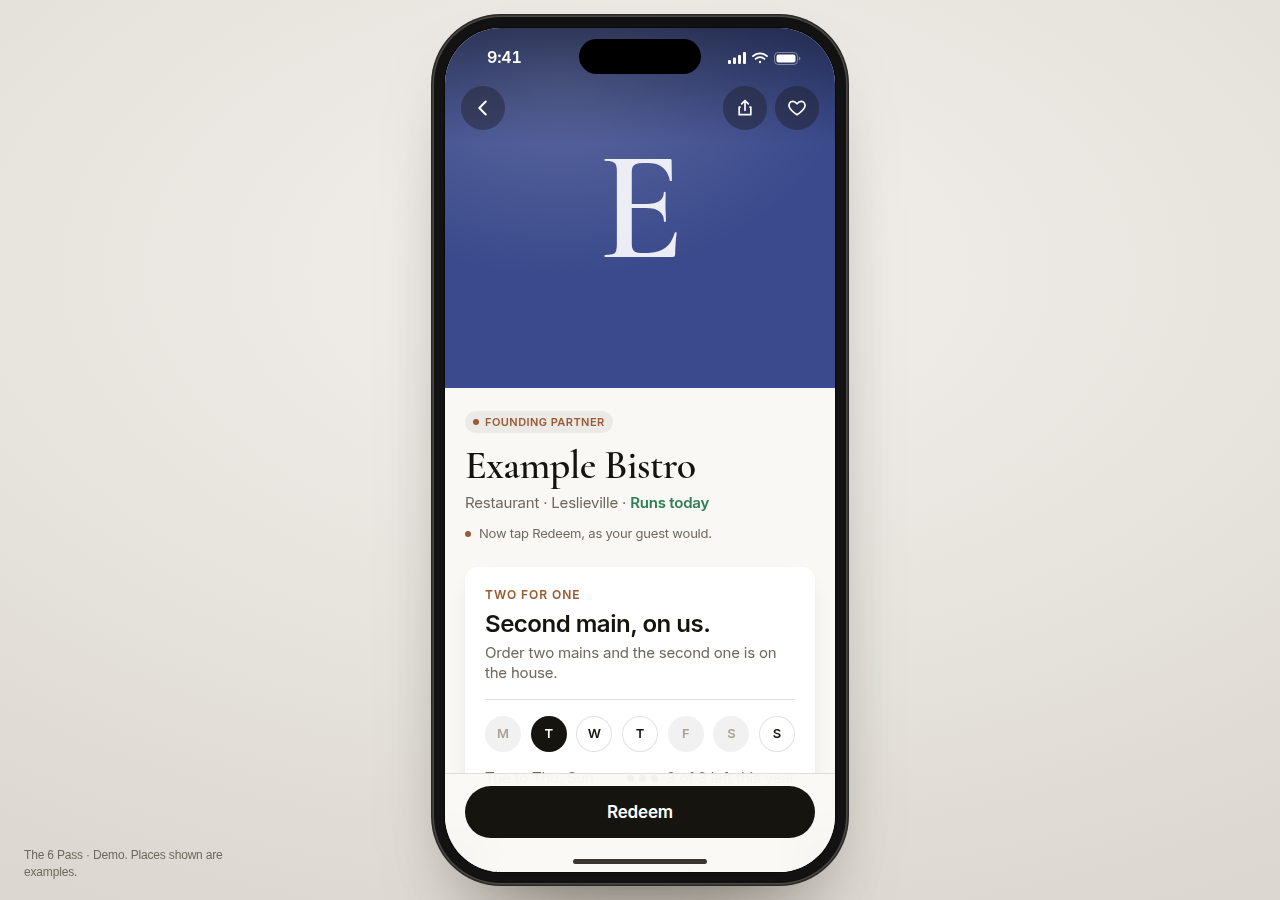
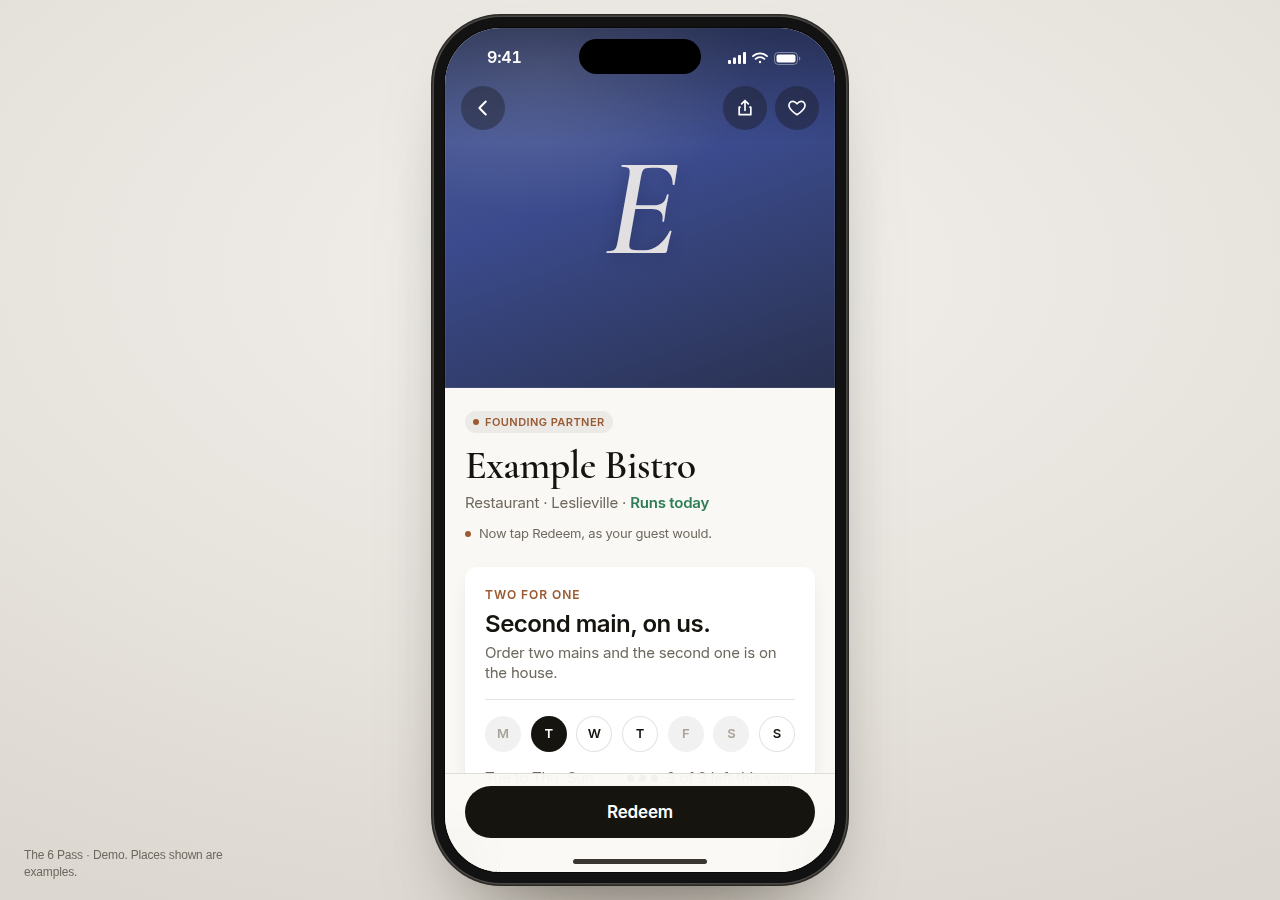
Demo: richer no-photo tile, tap hints off by default, photo first in set-up
- No photo: a deep gradient in the owner's colour with the initial in
  the place-name serif, like a cover photo.
- Tap hints (the small 'tap Redeem' lines) are off by default, so owners
  see a clean app. Nida turns them on with a Tap hints switch on the
  start screen; it survives New meeting.
- Set-up sheet asks for a photo right after the name.
- Merchant walk: 110/110 (hints default, hints-off check).

Changed region(s): [[0.3438, 0.1556, 0.6562, 0.4356]]

diff --git a/src/mock/ui.tsx b/src/mock/ui.tsx
@@ -36,13 +36,19 @@ export function Photo({ p, size = 640, className = "", priority = false }: { p: 
       // eslint-disable-next-line @next/next/no-img-element
       return <img src={p.photo} alt="" decoding="async" className={`object-cover ${className}`} />;
     }
+    // A deep tile in their colour, like a cover photo, with the initial in the place-name serif.
+    const c = p.colour ?? "#C8372A";
     return (
       <span
         aria-hidden="true"
         className={`flex items-center justify-center overflow-hidden ${className}`}
-        style={{ background: `radial-gradient(120% 90% at 30% 15%, rgba(255,255,255,0.16), transparent 60%), ${p.colour ?? "#C8372A"}`, containerType: "size" }}
+        style={{
+          background: `radial-gradient(90% 70% at 25% 10%, rgba(255,255,255,0.14), transparent 60%), linear-gradient(160deg, color-mix(in oklab, ${c} 88%, #fff) 0%, ${c} 45%, color-mix(in oklab, ${c} 55%, #16140F) 100%)`,
+          boxShadow: "inset 0 0 0 1px rgba(255,255,255,0.08)",
+          containerType: "size",
+        }}
       >
-        <span className="display leading-none text-white/90" style={{ fontSize: "min(50cqh, 40cqw)" }}>
+        <span className="display italic leading-none text-[#F4F1EC]/90" style={{ fontSize: "min(44cqh, 36cqw)", textShadow: "0 2px 18px rgba(0,0,0,0.18)" }}>
           {initialOf(p.name)}
         </span>
       </span>
@@ -55,8 +61,40 @@ export function Photo({ p, size = 640, className = "", priority = false }: { p: 
   );
 }
 
-/** One quiet line telling whoever holds the phone what to tap next. */
-export function Guide({ children, className = "" }: { children: React.ReactNode; className?: string }) {
+/* Tap hints for practising the demo. Off by default, so owners see a clean app. Kept apart from the demo state, so New meeting doesn't reset it. */
+const HINTS_KEY = "t6p_hints";
+const HINTS_EVENT = "t6p-hints";
+function subscribeHints(l: () => void) {
+  window.addEventListener(HINTS_EVENT, l);
+  window.addEventListener("storage", l);
+  return () => {
+    window.removeEventListener(HINTS_EVENT, l);
+    window.removeEventListener("storage", l);
+  };
+}
+function readHints() {
+  try {
+    return window.localStorage.getItem(HINTS_KEY) === "1";
+  } catch {
+    return false;
+  }
+}
+export function useHints() {
+  return useSyncExternalStore(subscribeHints, readHints, () => false);
+}
+export function setHints(on: boolean) {
+  try {
+    window.localStorage.setItem(HINTS_KEY, on ? "1" : "0");
+  } catch {
+    /* blocked storage: hints just stay off */
+  }
+  window.dispatchEvent(new Event(HINTS_EVENT));
+}
+
+/** One quiet line telling whoever holds the phone what to tap next. Shown only with tap hints on, unless `always`. */
+export function Guide({ children, className = "", always = false }: { children: React.ReactNode; className?: string; always?: boolean }) {
+  const hints = useHints();
+  if (!always && !hints) return null;
   return (
     <p className={`hint ${className}`} data-testid="guide">
       <span>{children}</span>

diff --git a/src/mock/screens/owner/Start.tsx b/src/mock/screens/owner/Start.tsx
@@ -10,10 +10,26 @@ import { useState } from "react";
 import { mock, place, useMock } from "../../store";
 import { OWNER_ID, blankDraft } from "../../owner";
 import { IChev, IGear, IPlay } from "../../icons";
-import { Guide, NavBar, Wordmark } from "../../ui";
+import { Guide, NavBar, setHints, useHints, Wordmark } from "../../ui";
 import { PlaceCard } from "../Explore";
 import { NewMeeting } from "./NewMeeting";
 import { QuickSetup } from "./QuickSetup";
+
+/** Nida's switch: one quiet line on each screen saying what to tap next. Off for real meetings. */
+function HintsRow() {
+  const on = useHints();
+  return (
+    <div className="row">
+      <span className="min-w-0">
+        <span id="hints-label" className="block">Tap hints</span>
+        <span className="t-foot block">A small line on each screen saying what to tap. For practice.</span>
+      </span>
+      <button type="button" role="switch" aria-checked={on} aria-labelledby="hints-label" onClick={() => setHints(!on)} className="switch-hit">
+        <span className="switch" aria-hidden="true" data-on={on} />
+      </button>
+    </div>
+  );
+}
 
 export function Start() {
   const s = useMock();
@@ -50,7 +66,7 @@ export function Start() {
               <PlaceCard p={p} block={null} href={null} />
             </div>
             <div className="m mt-5">
-              <Guide>Tap Start demo and hand the phone over.</Guide>
+              <Guide always>Tap Start demo and hand the phone over.</Guide>
               <Link href="/app" className="btn press mt-3">
                 <IPlay />
                 Start demo
@@ -66,6 +82,7 @@ export function Start() {
                   <span>Set up a different place</span>
                   <IChev className="chev" />
                 </Link>
+                <HintsRow />
               </div>
             </div>
             <div className="m mt-6">
@@ -74,7 +91,7 @@ export function Start() {
           </>
         ) : (
           <div className="m mt-6">
-            <Guide>Tap Set up a place to begin with the owner&apos;s own place.</Guide>
+            <Guide always>Tap Set up a place to begin with the owner&apos;s own place.</Guide>
             <Link href="/app/owner/setup" onClick={() => mock.setDraft(0, blankDraft())} className="btn press mt-3">
               Set up a place
             </Link>
@@ -82,6 +99,9 @@ export function Start() {
               Start demo with example places
             </Link>
             <p className="t-foot mt-4">Before a meeting, tap the gear to fill in the place ahead of time.</p>
+            <div className="group mt-6">
+              <HintsRow />
+            </div>
           </div>
         )}
 

diff --git a/src/mock/screens/owner/QuickSetup.tsx b/src/mock/screens/owner/QuickSetup.tsx
@@ -67,6 +67,7 @@ export function QuickSetup({ onClose, onSaved }: { onClose: () => void; onSaved?
     >
       <div className="m space-y-6 pt-2">
         <TextField id="qs-name" label="Name of the place" value={d.name} onChange={(name) => set({ name })} />
+        <PhotoPicker value={d.photo} onChange={(photo) => set({ photo })} />
         <div className="group">
           <SelectRow
             id="qs-cat"
@@ -96,7 +97,6 @@ export function QuickSetup({ onClose, onSaved }: { onClose: () => void; onSaved?
         <OfferLine id="qs-offer" value={d.offer} onChange={(offer) => set({ offer })} />
         <DaysPicker value={d.days} onChange={(days) => set({ days })} />
         <UsesStepper value={d.usesPerYear} onChange={(usesPerYear) => set({ usesPerYear })} />
-        <PhotoPicker value={d.photo} onChange={(photo) => set({ photo })} />
         <ColourPicker value={d.colour} onChange={(colour) => set({ colour })} />
         <div role="status" aria-live="polite">
           {err && <Note>{err}</Note>}

diff --git a/src/mock/screens/owner/controls.tsx b/src/mock/screens/owner/controls.tsx
@@ -277,7 +277,7 @@ export function PhotoPicker({ value, onChange }: { value: string; onChange: (dat
           </div>
         )}
       </div>
-      <p className="group-foot">It stays on this device. No photo? We use your colour and first letter.</p>
+      <p className="group-foot">A photo of the room or a dish from their website or Instagram looks best. It stays on this device.</p>
     </div>
   );
 }

diff --git a/docs/merchant-mock/RESULTS.md b/docs/merchant-mock/RESULTS.md
@@ -1,11 +1,12 @@
 # Merchant demo click-through
 
-Run: 2026-10-13 17:10 UTC against `http://localhost:4190` (static export). Screenshots in `390/` and `1280/`.
+Run: 2026-10-13 21:36 UTC against `http://localhost:4190` (static export). Screenshots in `390/` and `1280/`.
 
-106/106 checks passed.
+110/110 checks passed.
 
 - ✅ [390] entry shows Set up a place
 - ✅ [390] entry guide line (Tap Set up a place to begin with the owner's own place.)
+- ✅ [390] tap hints off by default
 - ✅ [390] step 1 of 6
 - ✅ [390] Next off until a name
 - ✅ [390] offer prefilled by category
@@ -26,7 +27,7 @@ Run: 2026-10-13 17:10 UTC against `http://localhost:4190` (static export). Scree
 - ✅ [390] staff line word for word
 - ✅ [390] redeemed
 - ✅ [390] visit at the top, Just now (Just now)
-- ✅ [390] entry to visit under two minutes (scripted) (12s)
+- ✅ [390] entry to visit under two minutes (scripted) (13s)
 - ✅ [390] sample numbers labelled illustrative
 - ✅ [390] costs line
 - ✅ [390] other tab gets the visit without reload (1 -> 2)
@@ -45,7 +46,7 @@ Run: 2026-10-13 17:10 UTC against `http://localhost:4190` (static export). Scree
 - ✅ [390] offline: Start demo opens the member app, their place first (http://localhost:4190/app)
 - ✅ [390] offline: redeem lands on dashboard
 - ✅ [390] offline: direct load of setup
-- ✅ [390] offline: fonts load (2 faces)
+- ✅ [390] offline: fonts load (1 faces)
 - ✅ [390] Keep it keeps the place
 - ✅ [390] New meeting wipes the place
 - ✅ [390] New meeting wipes visits
@@ -54,11 +55,13 @@ Run: 2026-10-13 17:10 UTC against `http://localhost:4190` (static export). Scree
 - ✅ [390] Start demo lands on the member app, their place first
 - ✅ [390] member app has no owner-facing setup words
 - ✅ [390] no photo: colour and initial, no placeholder
+- ✅ [390] hints off: no hint lines on the member screens
 - ✅ [390] reset clears the owner place
 - ✅ [390] targets at least 40px tall on owner screen
 - ✅ [390] no page errors
 - ✅ [1280] entry shows Set up a place
 - ✅ [1280] entry guide line (Tap Set up a place to begin with the owner's own place.)
+- ✅ [1280] tap hints off by default
 - ✅ [1280] step 1 of 6
 - ✅ [1280] Next off until a name
 - ✅ [1280] offer prefilled by category
@@ -79,7 +82,7 @@ Run: 2026-10-13 17:10 UTC against `http://localhost:4190` (static export). Scree
 - ✅ [1280] staff line word for word
 - ✅ [1280] redeemed
 - ✅ [1280] visit at the top, Just now (Just now)
-- ✅ [1280] entry to visit under two minutes (scripted) (12s)
+- ✅ [1280] entry to visit under two minutes (scripted) (11s)
 - ✅ [1280] sample numbers labelled illustrative
 - ✅ [1280] costs line
 - ✅ [1280] other tab gets the visit without reload (1 -> 2)
@@ -98,7 +101,7 @@ Run: 2026-10-13 17:10 UTC against `http://localhost:4190` (static export). Scree
 - ✅ [1280] offline: Start demo opens the member app, their place first (http://localhost:4190/app)
 - ✅ [1280] offline: redeem lands on dashboard
 - ✅ [1280] offline: direct load of setup
-- ✅ [1280] offline: fonts load (2 faces)
+- ✅ [1280] offline: fonts load (1 faces)
 - ✅ [1280] Keep it keeps the place
 - ✅ [1280] New meeting wipes the place
 - ✅ [1280] New meeting wipes visits
@@ -107,6 +110,7 @@ Run: 2026-10-13 17:10 UTC against `http://localhost:4190` (static export). Scree
 - ✅ [1280] Start demo lands on the member app, their place first
 - ✅ [1280] member app has no owner-facing setup words
 - ✅ [1280] no photo: colour and initial, no placeholder
+- ✅ [1280] hints off: no hint lines on the member screens
 - ✅ [1280] reset clears the owner place
 - ✅ [1280] targets at least 40px tall on owner screen
 - ✅ [1280] no page errors
